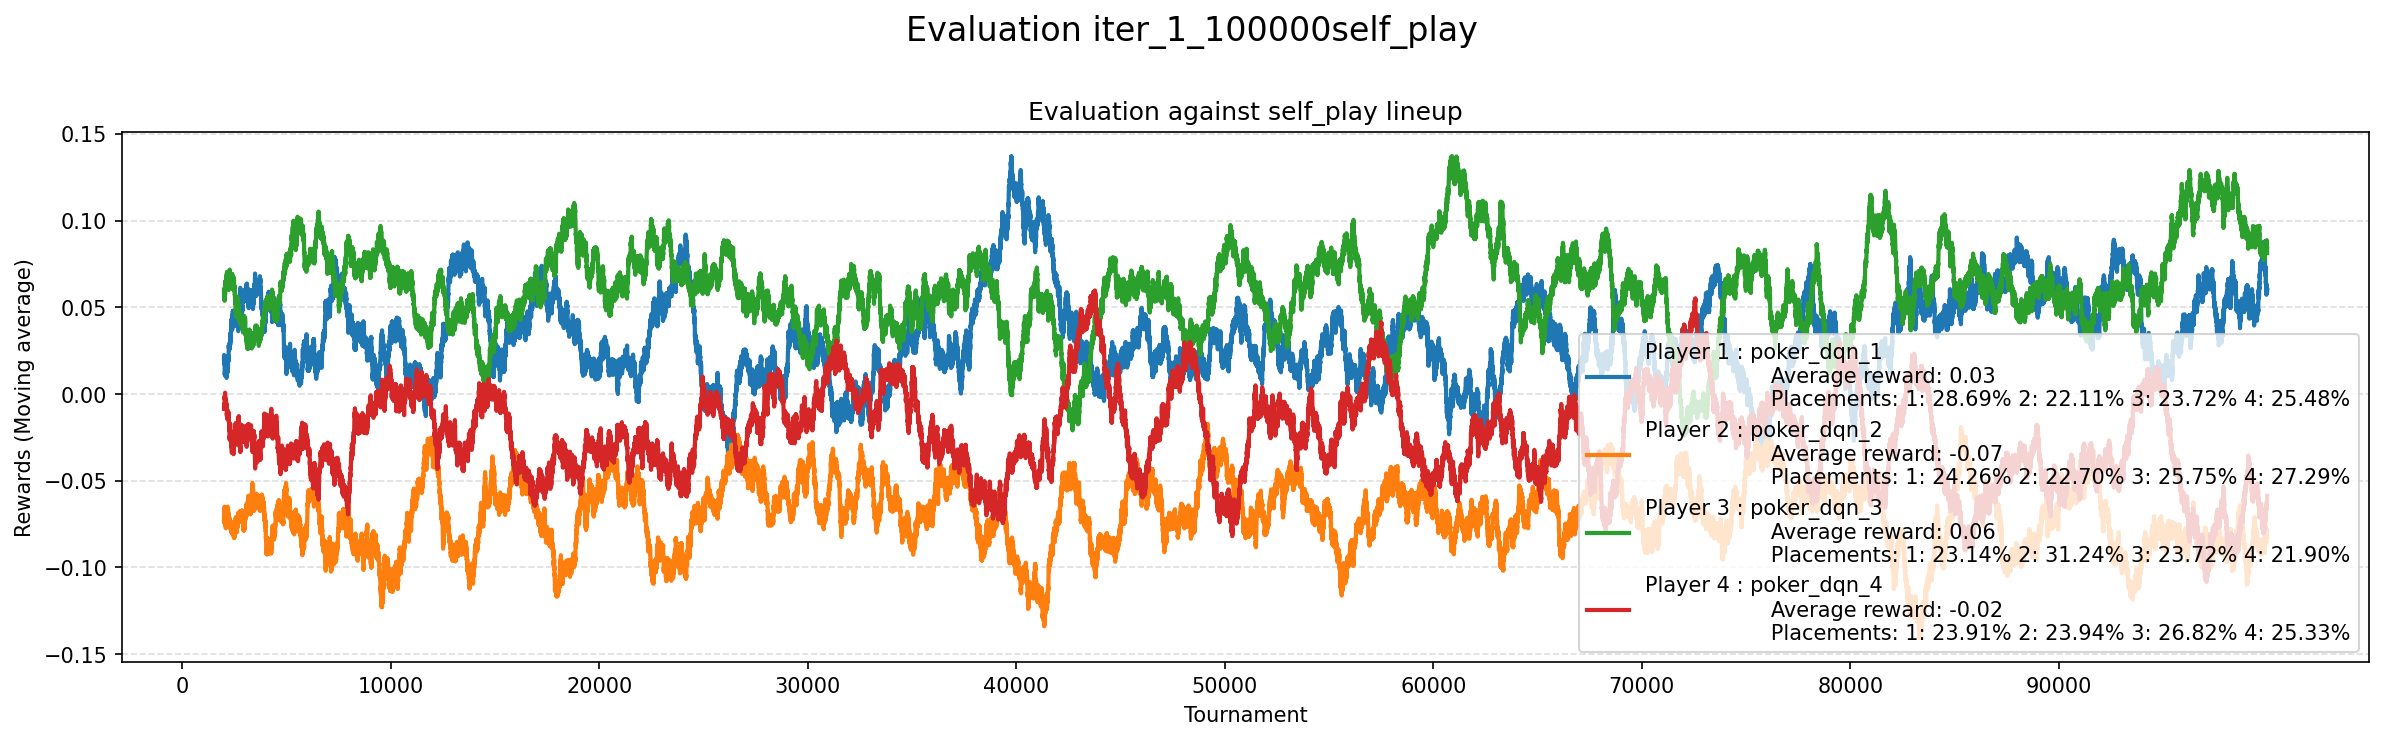
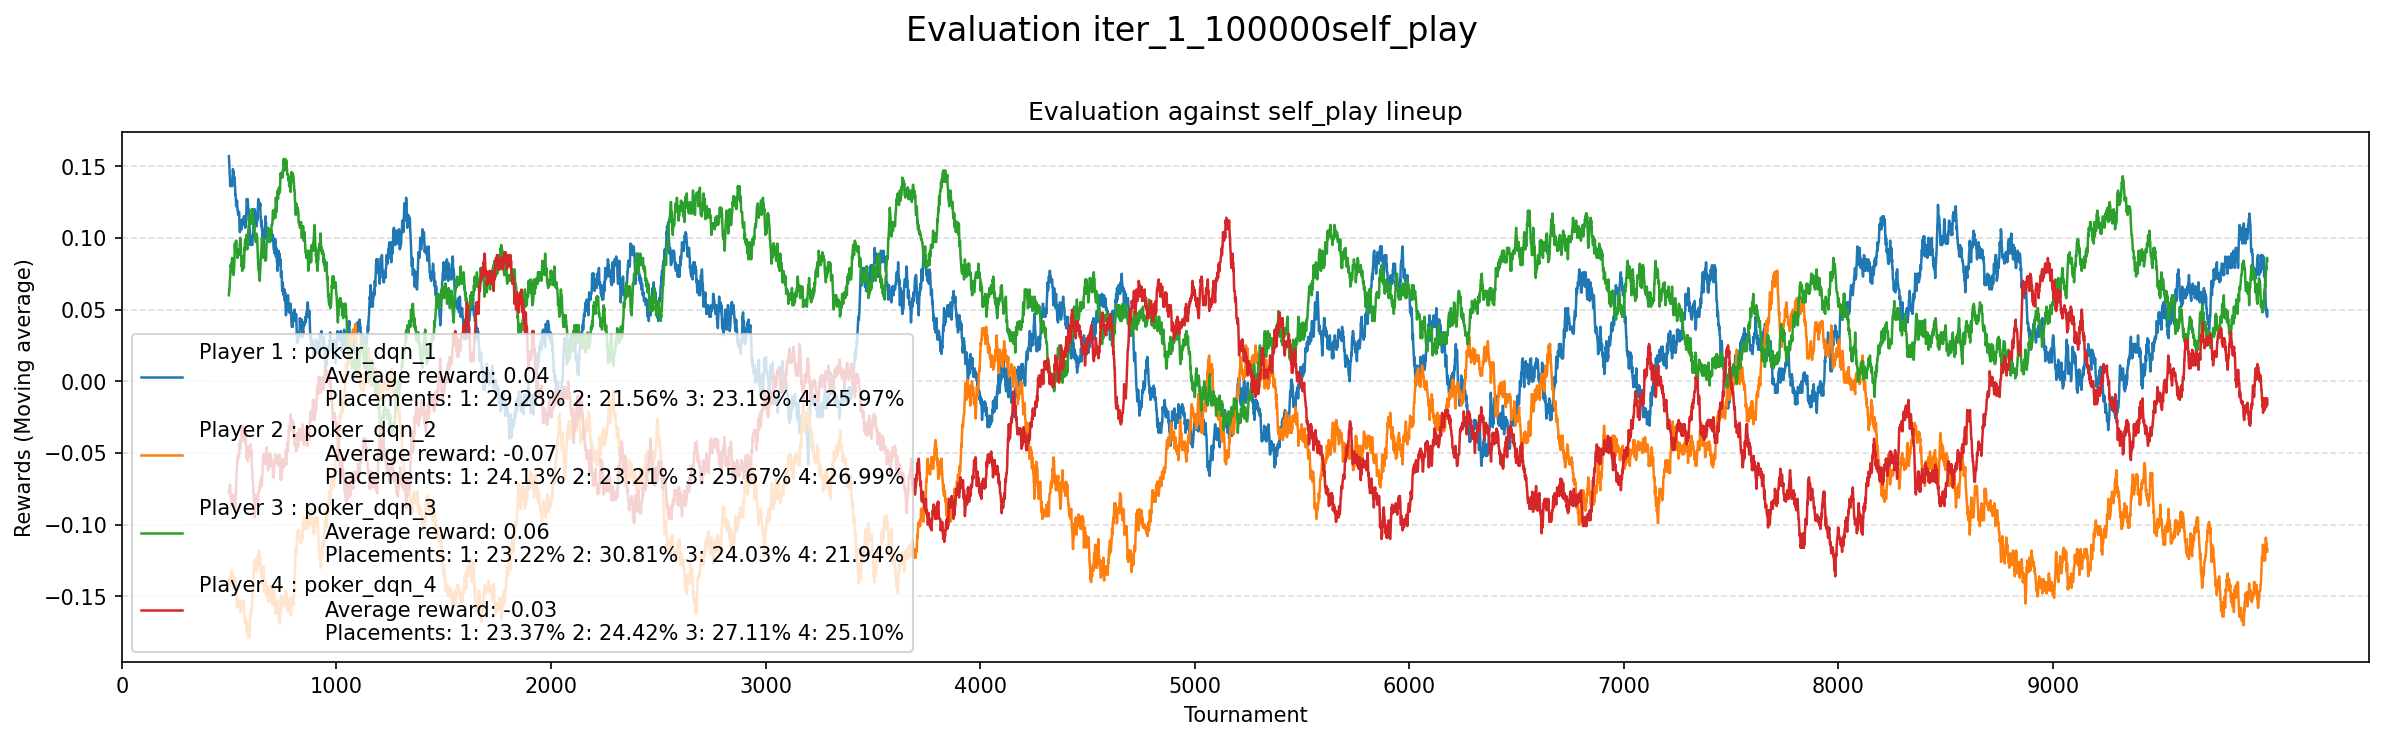
100 smooth evals and final training progression

diff --git a/eval.py b/eval.py
@@ -66,7 +66,7 @@ def plot_results(rewards_per_tournament, agents, n_tournaments, window_size, ax)
             smoothed = moving_average(rewards, window_size)
             x_values = range(window_size - 1, window_size - 1 + len(smoothed))
 
-        ax.plot(x_values, smoothed, linewidth=2, label=f"Player {i + 1}")
+        ax.plot(x_values, smoothed, linewidth=1.2, label=f"Player {i + 1}")
 
     ax.set_title("Rewards per Tournament in Poker Simulation")
     ax.set_xlabel("Tournament")
@@ -257,6 +257,7 @@ def eval_checkpoint_dir(checkpoint_dirs,
     first_dir = next(iter(checkpoint_dirs.values()))
     run_id = os.path.basename(first_dir)
     eval_dir = os.path.join("eval_logs", run_id)
+    eval_dir = eval_dir + "_self_play"
     os.makedirs(eval_dir, exist_ok=True)
 
     # ---------- helper: extract training step ----------
@@ -297,7 +298,7 @@ def eval_checkpoint_dir(checkpoint_dirs,
         lineups = {"self_play": agents}
 
         eval_name = ckpt.replace(".pt", "self_play")
-        eval_dir = eval_dir + "_self_play"
+       
 
         results = parallel_eval(
             lineups=lineups,

diff --git a/main.py b/main.py
@@ -55,7 +55,7 @@ def main():
     env.close()
     
     eval_checkpoint_dir(checkpoint_dirs=checkpoint_dirs,
-                            n_workers_per_lineup=10, n_tournaments_per_worker=10_000)
+                            n_workers_per_lineup=10, n_tournaments_per_worker=1_000)
 
 if __name__ == "__main__":  
     #pr = cProfile.Profile()
